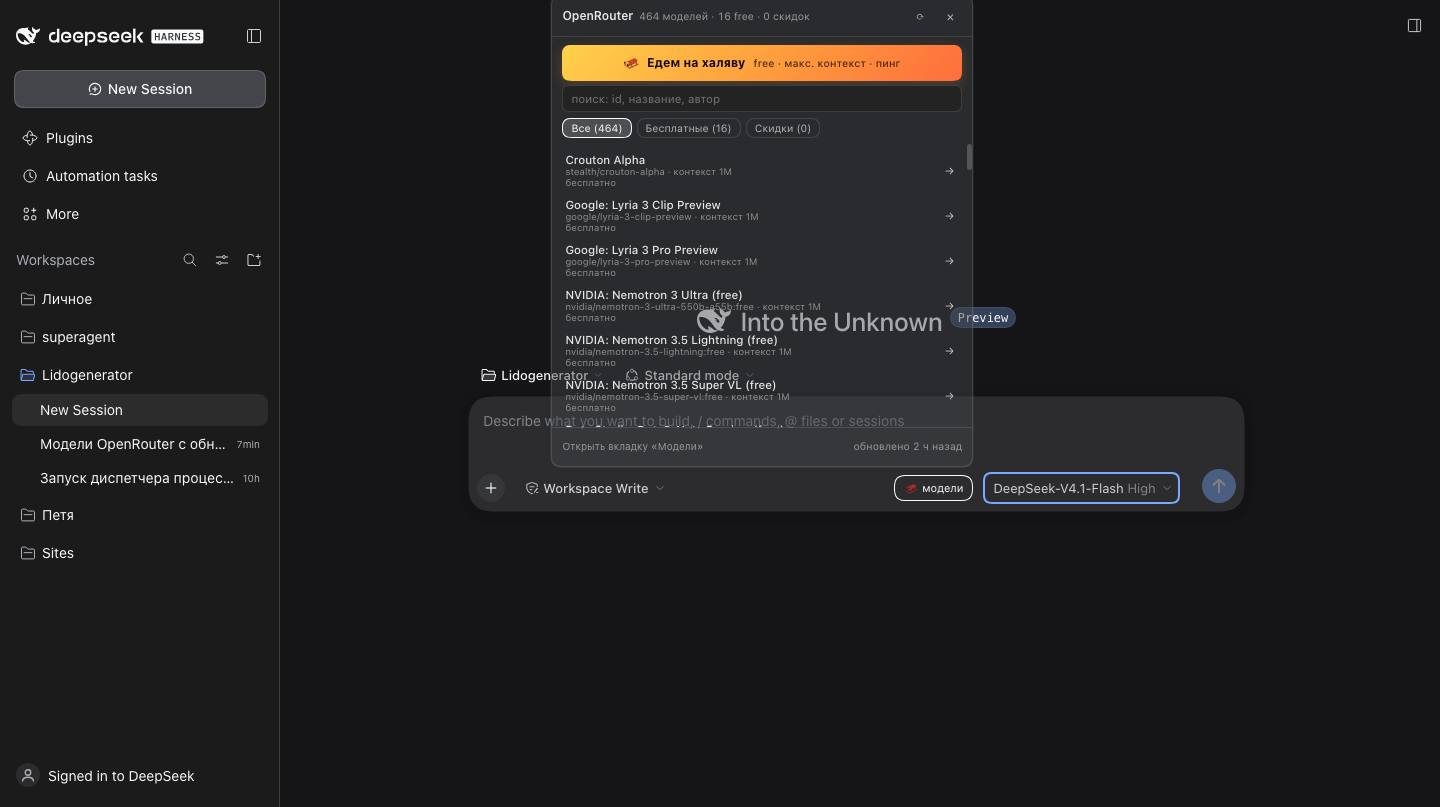
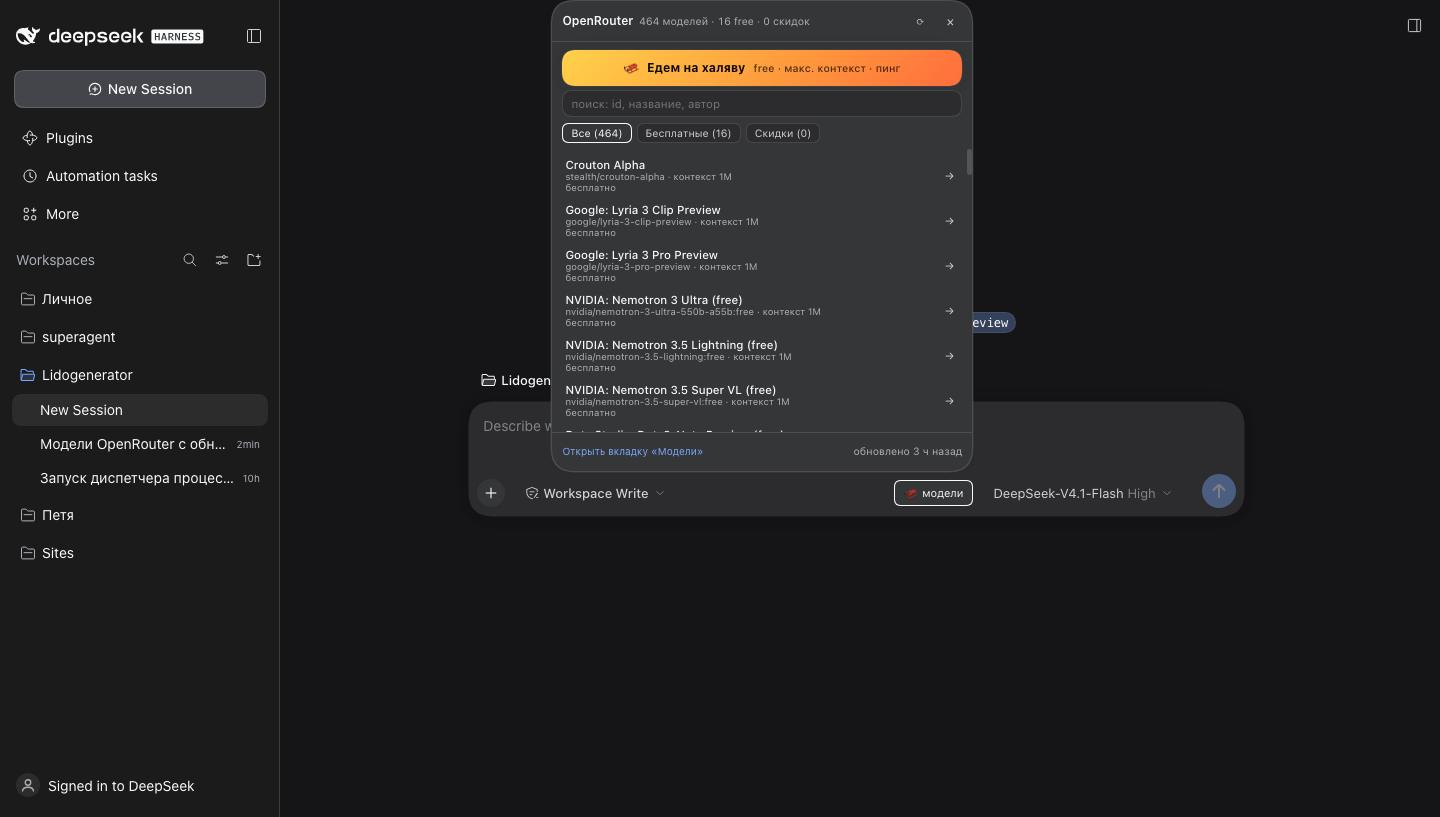
docs: refresh composer menu screenshot, drop stale dashboard capture

diff --git a/README.md b/README.md
@@ -5,8 +5,6 @@
 и суперкнопка **«Едем на халяву»**: находит бесплатную модель с максимальным контекстом, пингует её, включает
 в провайдера OpenRouter и переключает на неё текущую сессию.
 
-![Вкладка «Модели OpenRouter»](docs/screenshot.jpg)
-
 ![Меню «Модели OpenRouter» в композере](docs/menu.jpg)
 
 ## Что внутри
